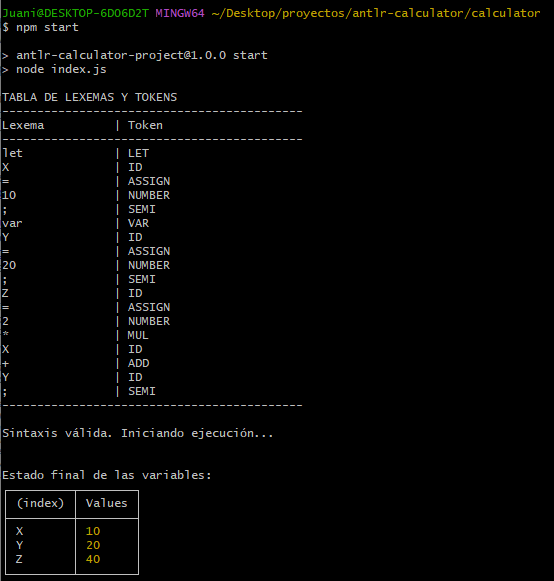
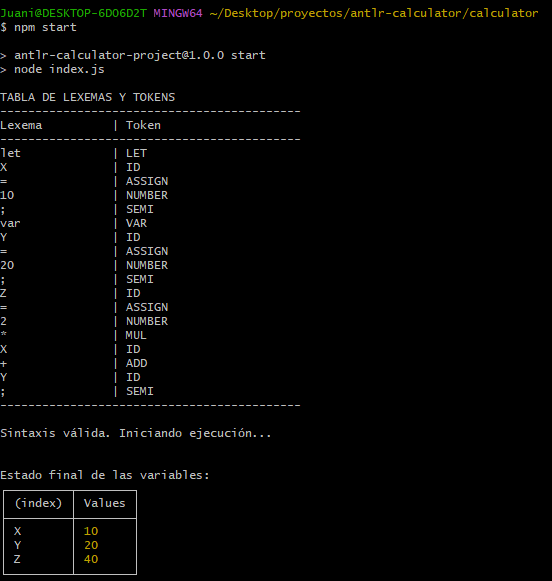
Se arregla la visualización de la imagen de resultados del README.md

diff --git a/README.md b/README.md
@@ -43,7 +43,7 @@ El programa genera automáticamente los siguientes resultados:
 2. Validación Sintáctica: Confirmación de que el código respecta la gramática definida.
 3. Estado de Memoria: Una tabla con los valores finales asignados a cada variable tras la ejecución del Visitor.
 
-![Resultados consola](./resultados.png)
+![Resultados consola](./resultado.png)
 
 ### Árbol de Derivación (Punto C)
 El siguiente gráfico representa la estructura jerárquica generada para el código de prueba:
